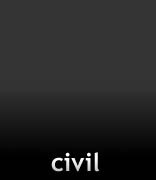
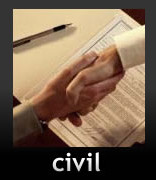
Fix broken images and enhance css styles for IE

diff --git a/BGFAbogados/war/css/bgfabogados.css b/BGFAbogados/war/css/bgfabogados.css
@@ -53,8 +53,10 @@ body {
 	text-align: center;
 }
 
-.pictures a {
+.pictures a,
+.pictures img {
 	text-decoration: none;
+	border: none;
 }
 
 .body {
